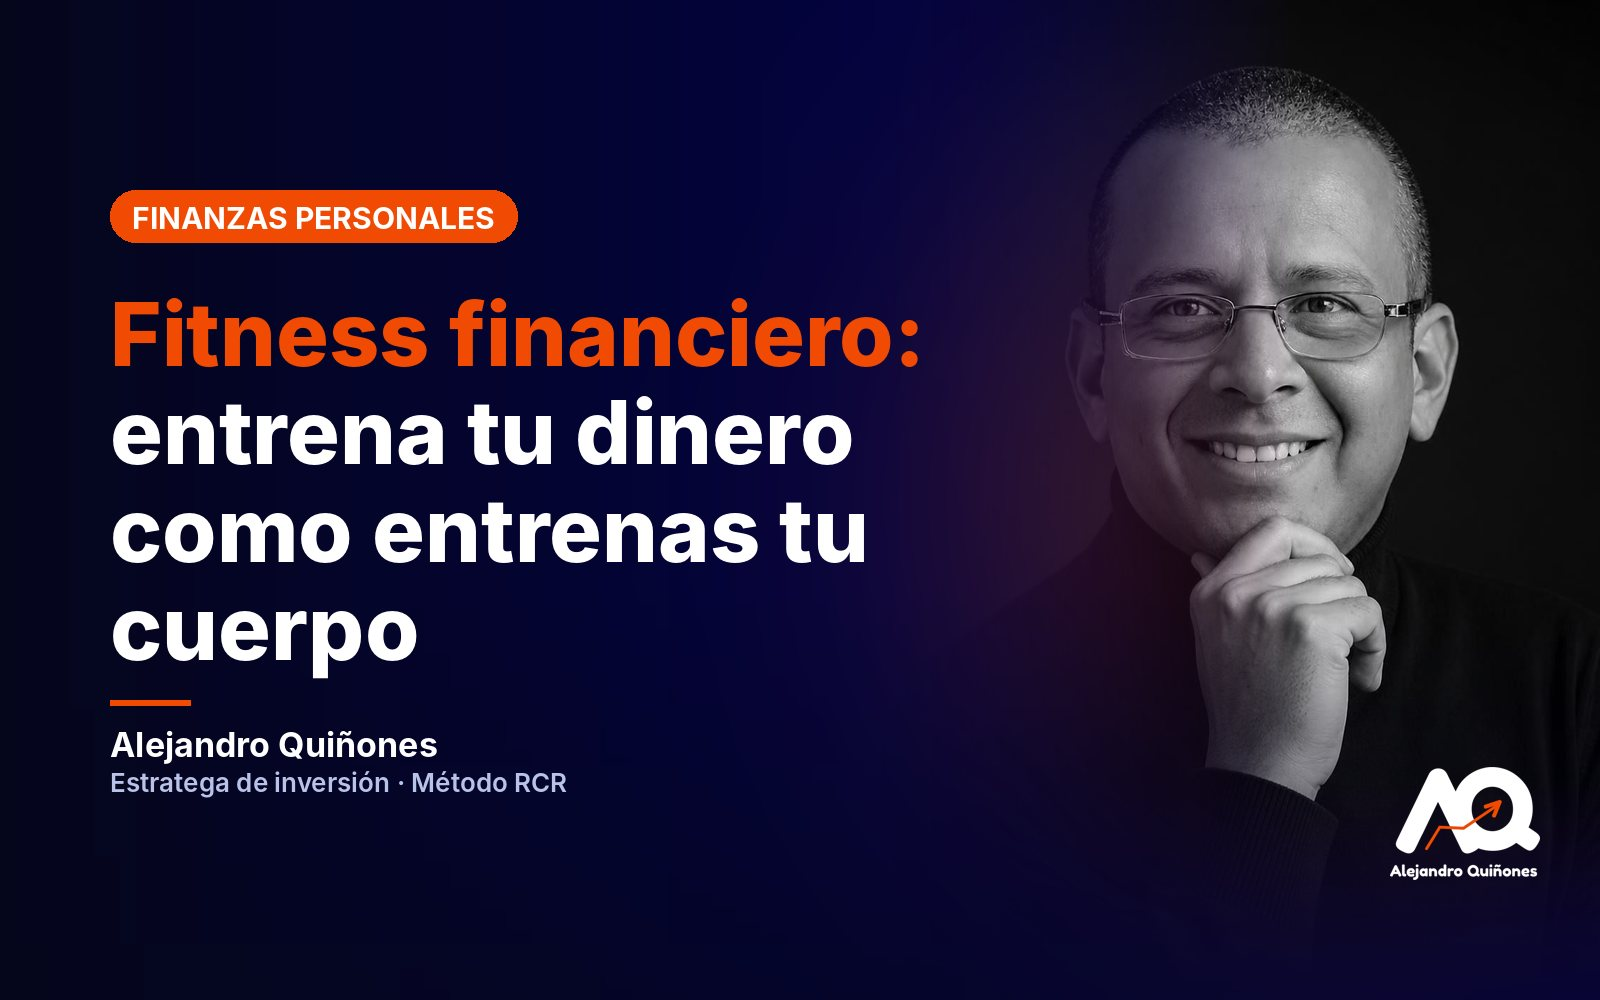
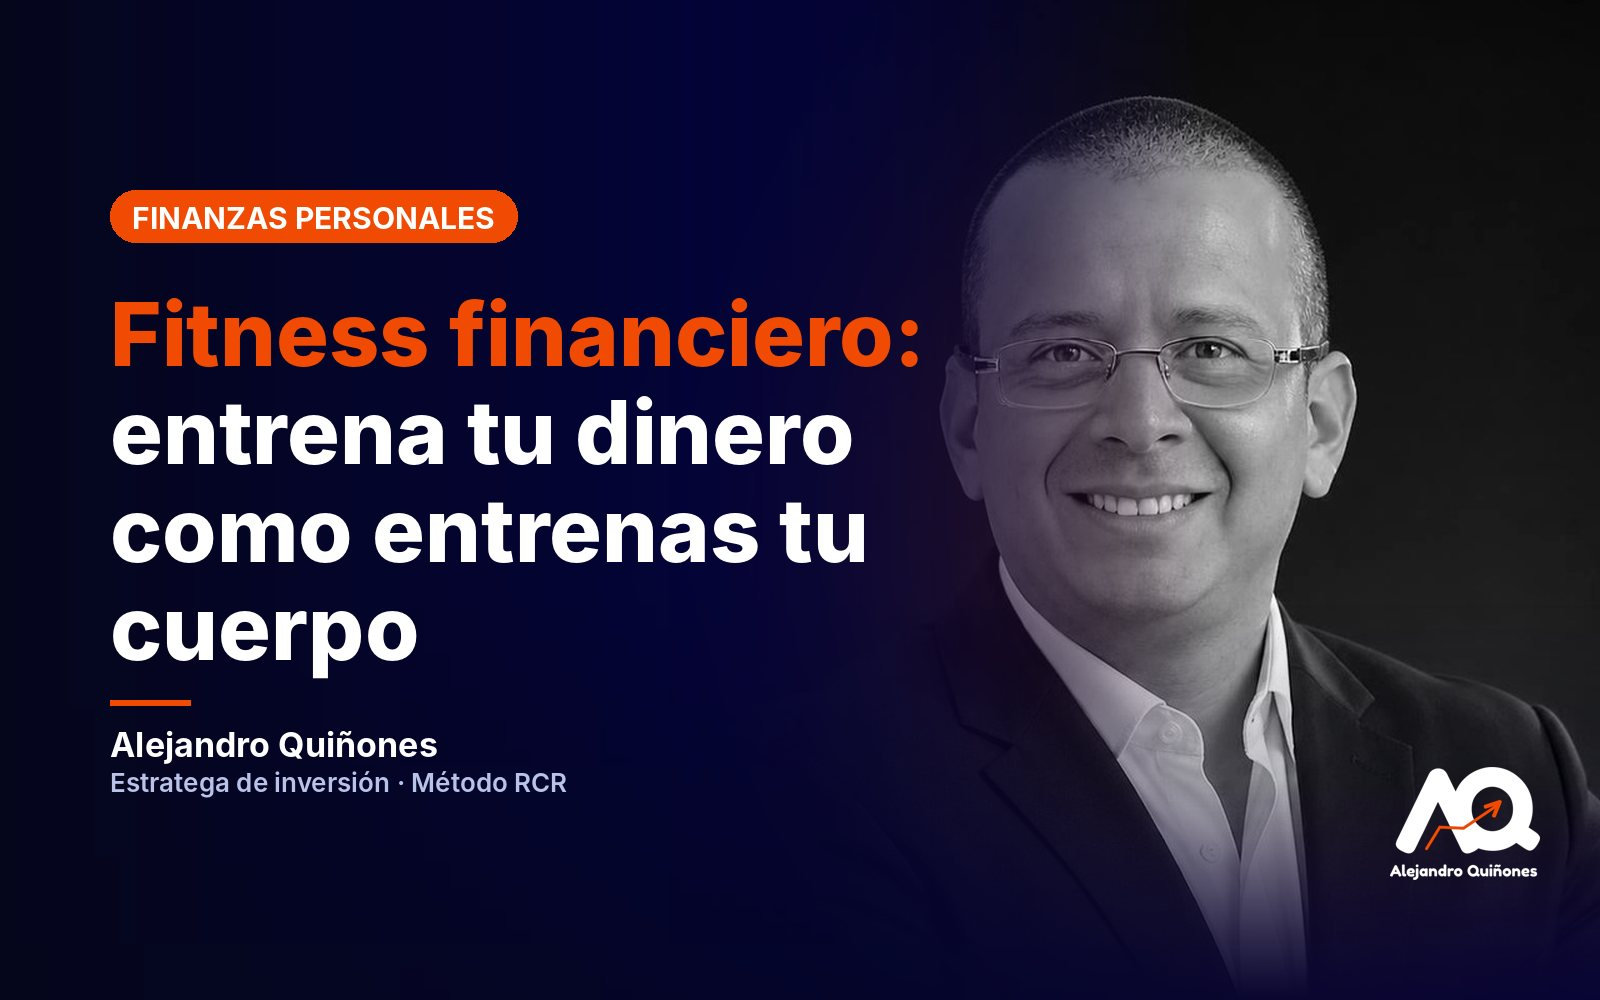
Blog: foto de la página principal en portada y autor
Claude-Session: https://claude.ai/code/session_013XbpDUNbKMA1nUJTeV6yAv

Changed region(s): [[0.5938, 0.062, 1.0, 0.961]]

diff --git a/blog/fitness-financiero/index.html b/blog/fitness-financiero/index.html
@@ -54,7 +54,7 @@
       <h1>Fitness financiero: cómo entrenar tu dinero igual que entrenas tu cuerpo</h1>
       <p class="bajada">Lo mismo que te lleva a mejorar tu salud y moldear tu cuerpo es lo que te lleva al éxito financiero. La pregunta es si estás dispuesto a pagar el precio.</p>
       <div class="autor">
-        <img src="/img/aq-sobre-mi.jpg" alt="Alejandro Quiñones" width="52" height="52">
+        <img src="/img/aq-bn-traje-sin-corbata.jpg" alt="Alejandro Quiñones" width="52" height="52">
         <div><b>Alejandro Quiñones</b><span class="meta">19 sept 2019<i></i>2 min de lectura</span></div>
       </div>
     </div>
@@ -115,7 +115,7 @@
         </div>
 
         <div class="bio">
-          <img src="/img/aq-sobre-mi.jpg" alt="Alejandro Quiñones" width="88" height="88" loading="lazy">
+          <img src="/img/aq-bn-traje-sin-corbata.jpg" alt="Alejandro Quiñones" width="88" height="88" loading="lazy">
           <div><b>Alejandro Quiñones</b><p>Estratega de inversión con más de 15 años de experiencia, conferencista internacional, autor de <i>La Arquitectura del Dinero</i> y creador del Método RCR: Rentabilidad, Consistencia y Riesgo.</p></div>
         </div>
         <p class="aviso-art">Este contenido es educativo y no constituye asesoría financiera personalizada ni promesa de rentabilidad. Invertir implica riesgos, incluida la posible pérdida del capital.</p>

diff --git a/blog/plantilla.html b/blog/plantilla.html
@@ -56,7 +56,7 @@
       <h1>✏ Cómo empezar a invertir en la bolsa de Nueva York desde Latinoamérica</h1>
       <p class="bajada">✏ Una o dos frases que resuman lo que la persona va a aprender en este artículo.</p>
       <div class="autor">
-        <img src="/img/aq-sobre-mi.jpg" alt="Alejandro Quiñones" width="52" height="52">
+        <img src="/img/aq-bn-traje-sin-corbata.jpg" alt="Alejandro Quiñones" width="52" height="52">
         <div><b>Alejandro Quiñones</b><span class="meta">✏ 1 nov 2026<i></i>✏ 7 min de lectura</span></div>
       </div>
     </div>
@@ -104,7 +104,7 @@
         </div>
 
         <div class="bio">
-          <img src="/img/aq-sobre-mi.jpg" alt="Alejandro Quiñones" width="88" height="88" loading="lazy">
+          <img src="/img/aq-bn-traje-sin-corbata.jpg" alt="Alejandro Quiñones" width="88" height="88" loading="lazy">
           <div><b>Alejandro Quiñones</b><p>Estratega de inversión con más de 15 años de experiencia, conferencista internacional, autor de <i>La Arquitectura del Dinero</i> y creador del Método RCR: Rentabilidad, Consistencia y Riesgo.</p></div>
         </div>
         <p class="aviso-art">Este contenido es educativo y no constituye asesoría financiera personalizada ni promesa de rentabilidad. Invertir implica riesgos, incluida la posible pérdida del capital.</p>
